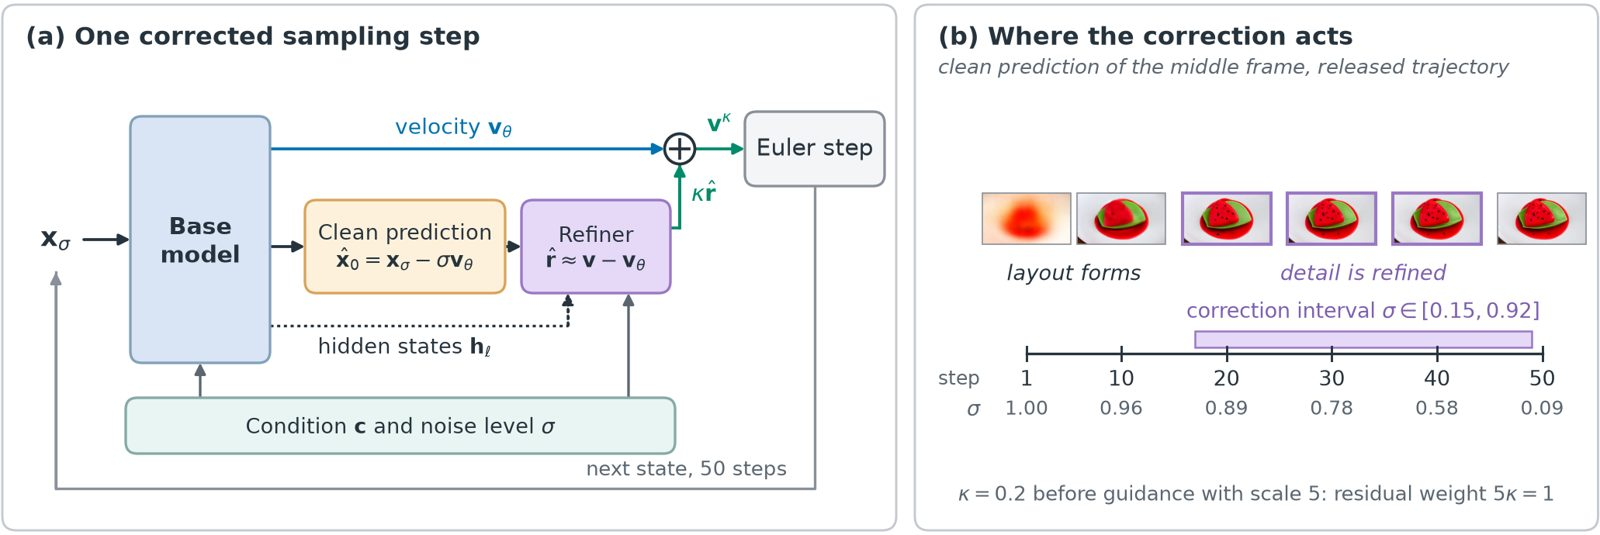
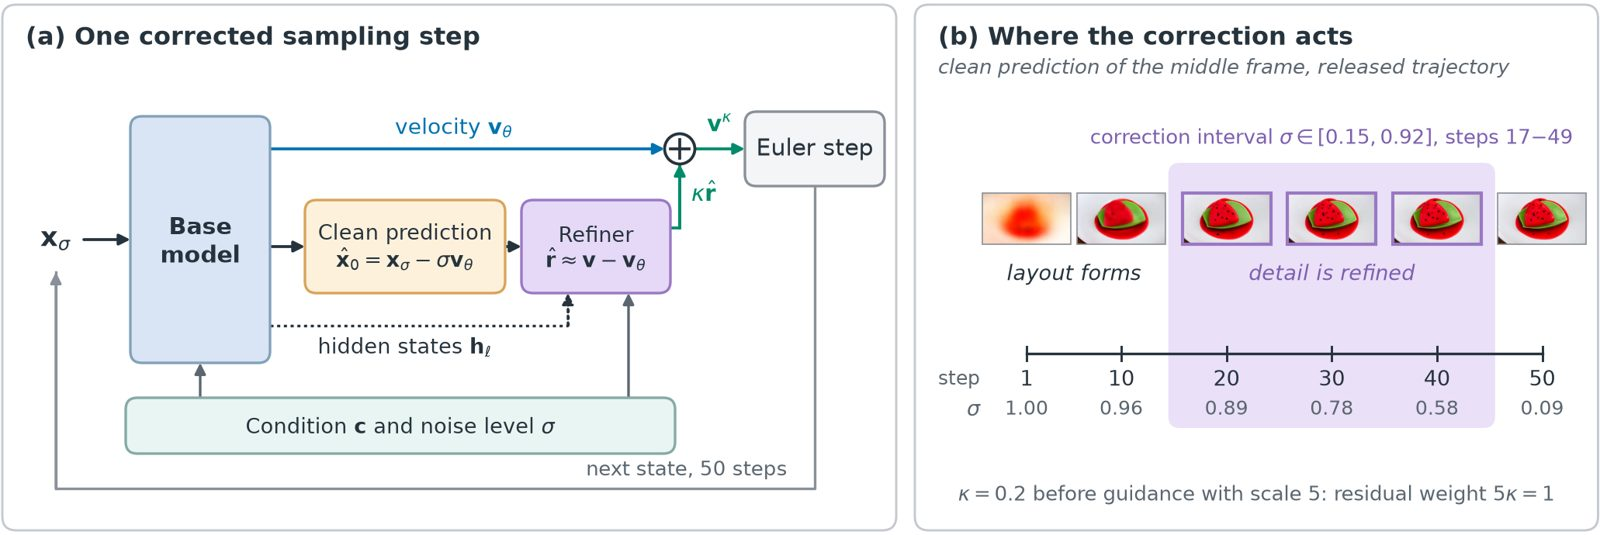
Part C: correction interval box aligned with the thumbnails

Changed region(s): [[0.7188, 0.2991, 0.9688, 0.8075], [0.6875, 0.2393, 1.0, 0.2692]]

diff --git a/code/schematics/draw_schematics.py b/code/schematics/draw_schematics.py
@@ -177,10 +177,14 @@ def method():
     axl, axr, ya = x0 + 0.48, x0 + wb - 0.24, 0.78
     pos = lambda s: axl + (s - 1) / 49 * (axr - axl)
     band = (pos(17), pos(49))
-    ax.add_patch(Rectangle((band[0], ya + 0.025), band[1] - band[0], 0.07, fc=COL["refiner"][0], ec=COL["refiner"][1], lw=0.6, zorder=2.5))
-    ax.text((band[0] + band[1]) / 2, ya + 0.13, r"correction interval $\sigma\in[0.15,0.92]$", ha="center", va="bottom",
-            fontsize=6.4, color=PURPLE)
     tw = 0.38
+    # background box over the shown steps that lie inside the correction interval (20, 30, 40),
+    # aligned with the edges of their thumbnails; the label gives the exact steps 17 to 49
+    bl, br = pos(20) - tw / 2 - 0.06, pos(40) + tw / 2 + 0.06
+    ax.add_patch(FancyBboxPatch((bl, 0.46), br - bl, 1.14, boxstyle="round,pad=0,rounding_size=0.05",
+                                fc=COL["refiner"][0], ec="none", alpha=0.8, zorder=0.5))
+    ax.text((bl + br) / 2, 1.66, r"correction interval $\sigma\in[0.15,0.92]$, steps 17$-$49", ha="center", va="bottom",
+            fontsize=6.2, color=PURPLE)
     th = tw * 480 / 832
     cxs = [pos(s) for s in steps]   # each thumbnail sits above its own step
     for s, c in zip(steps, cxs):
@@ -199,7 +203,7 @@ def method():
     ax.text(axl - 0.20, ya - 0.07, "step", ha="right", va="top", fontsize=6.0, color=GREY)
     ax.text(axl - 0.20, ya - 0.20, r"$\sigma$", ha="right", va="top", fontsize=6.4, color=GREY)
     ax.text((cxs[0] + cxs[1]) / 2, 1.12, "layout forms", ha="center", va="center", fontsize=6.4, color=INK, style="italic")
-    ax.text((band[0] + band[1]) / 2, 1.12, "detail is refined", ha="center", va="center", fontsize=6.4, color=PURPLE, style="italic")
+    ax.text((bl + br) / 2, 1.12, "detail is refined", ha="center", va="center", fontsize=6.4, color=PURPLE, style="italic")
     ax.text(x0 + wb / 2, 0.17, r"$\kappa=0.2$ before guidance with scale 5: residual weight $5\kappa=1$",
             ha="center", va="center", fontsize=6.2, color=GREY)
     save(fig, "fig_method_step")
